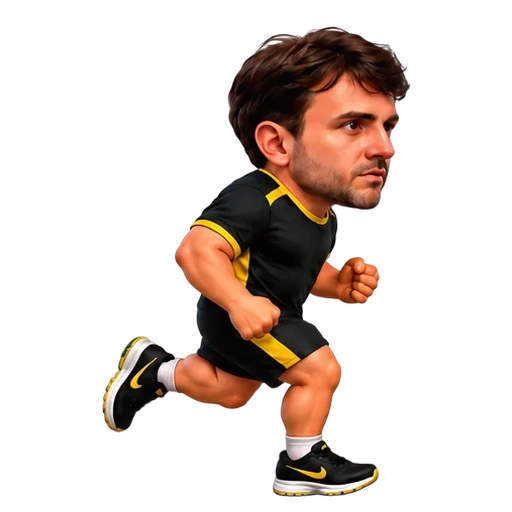
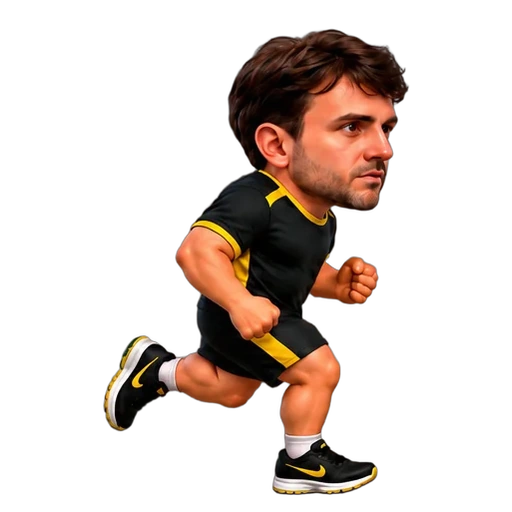
fix: use supplied runner art for every candidate

diff --git a/src/components/race-home.tsx b/src/components/race-home.tsx
@@ -22,7 +22,12 @@ import {
   RefreshCw,
 } from "lucide-react";
 import { useRace } from "./race-provider";
-import { RunnerCanvas, runnerTilesets, RUNNER_CONFIG } from "./runner-canvas";
+import {
+  RunnerCanvas,
+  runnerAvatars,
+  runnerTilesets,
+  RUNNER_CONFIG,
+} from "./runner-canvas";
 import { Candidate, number, money } from "@/lib/types";
 export function Counter({ value }: { value: number }) {
   const [display, setDisplay] = useState(value);
@@ -59,14 +64,15 @@ export function Avatar({
     return (
       <RunnerCanvas candidateId={candidate.id} candidateName={candidate.name} />
     );
-  if (candidate.id === "renan")
+  const runnerAvatar = runnerAvatars[candidate.id];
+  if (runnerAvatar)
     return (
       <span
         role="img"
         aria-label={`Caricatura de ${candidate.name}`}
         className="avatar-sprite"
         style={{
-          backgroundImage: "url(/runners/renan-avatar.webp)",
+          backgroundImage: `url(${runnerAvatar})`,
           backgroundPosition: "center bottom",
           backgroundSize: "contain",
         }}

diff --git a/src/components/secondary.tsx b/src/components/secondary.tsx
@@ -21,6 +21,7 @@ import {
   Zap,
 } from "lucide-react";
 import { useRace } from "@/components/race-provider";
+import { runnerAvatars } from "@/components/runner-canvas";
 import {
   type Candidate,
   type HistoryPoint,
@@ -49,6 +50,7 @@ export function CandidateAvatar({
   const index = cell ? Number(cell[1]) : 0;
   const safeImage =
     candidate.avatar && /^(https?:\/\/|\/(?!\/))/.test(candidate.avatar);
+  const runnerAvatar = candidate.id ? runnerAvatars[candidate.id] : undefined;
   return (
     <span
       role="img"
@@ -57,9 +59,9 @@ export function CandidateAvatar({
       style={
         {
           "--avatar-color": candidate.color,
-          ...(candidate.id === "renan"
+          ...(runnerAvatar
             ? {
-                backgroundImage: "url(/runners/renan-avatar.webp)",
+                backgroundImage: `url(${runnerAvatar})`,
                 backgroundSize: "contain",
                 backgroundPosition: "center bottom",
               }

diff --git a/src/components/runner-canvas.tsx b/src/components/runner-canvas.tsx
@@ -12,6 +12,15 @@ export const runnerTilesets: Record<string, string> = {
   zema: "/runners/zema.webp",
 };
 
+export const runnerAvatars: Record<string, string> = {
+  lula: "/runners/lula-avatar.webp",
+  flavio: "/runners/flavio-avatar.webp",
+  renan: "/runners/renan-avatar.webp",
+  augusto: "/runners/augusto-avatar.webp",
+  caiado: "/runners/caiado-avatar.webp",
+  zema: "/runners/zema-avatar.webp",
+};
+
 const initialFrames: Record<string, number> = {
   lula: 0,
   flavio: 3,
